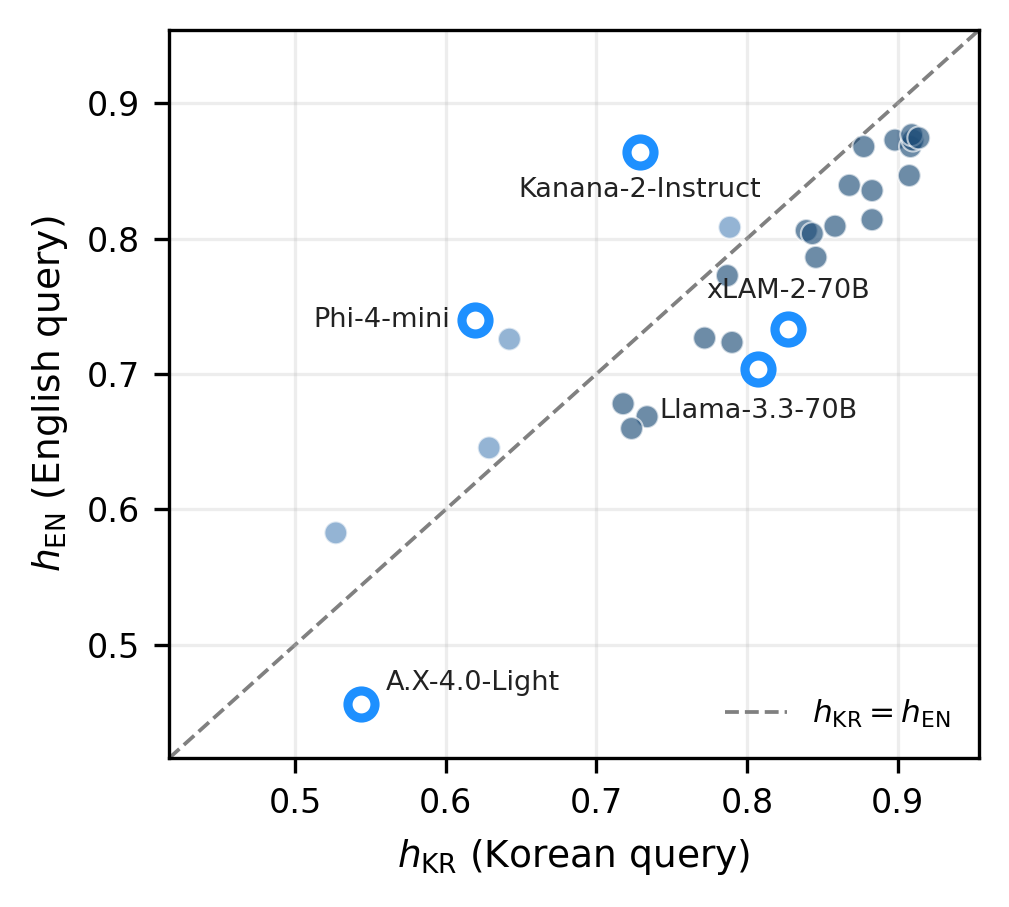
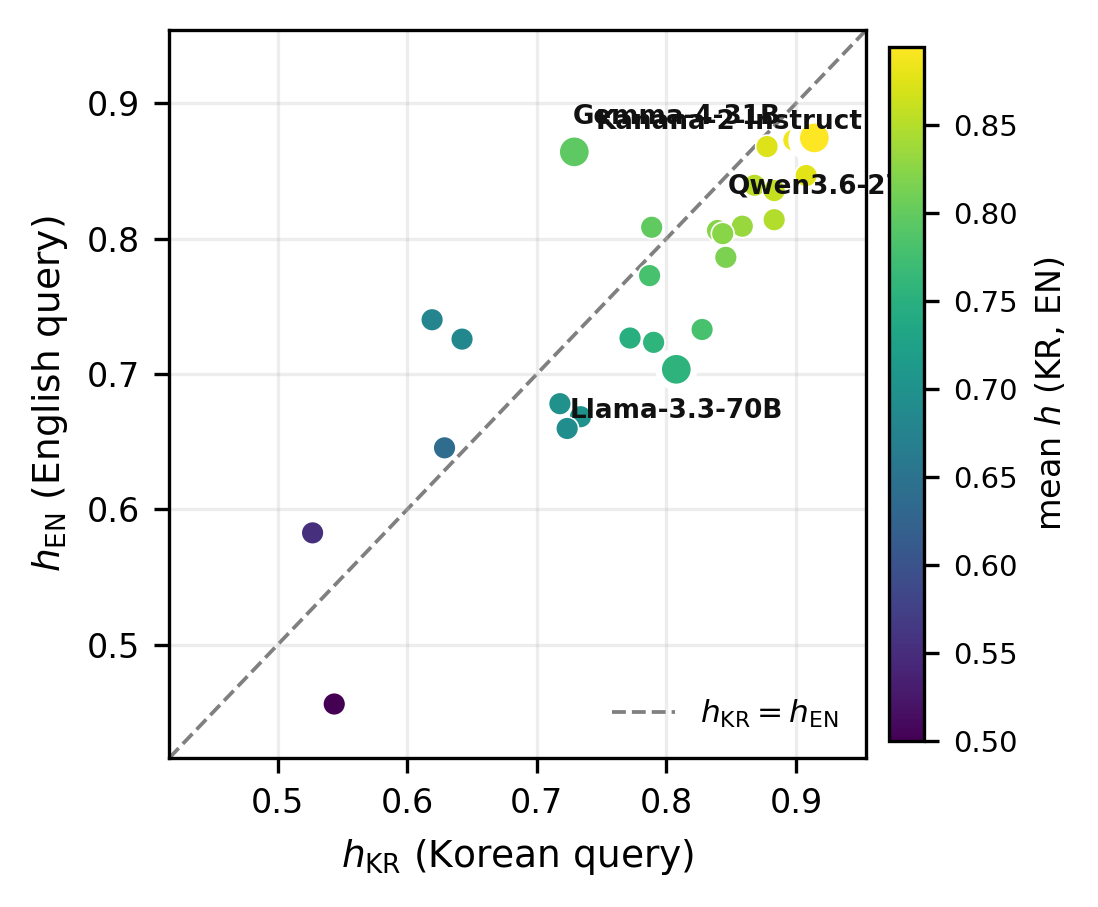
fig(RQ4 fig:kr_en): 점 색=두 언어 평균성능(viridis+colorbar)으로 인코딩, 강조를 'Δ상위5'→'두 언어 강함 2개(Gemma-4-31B,Qwen3.6-27B)+의미있는 격차 2개(Llama-3.3-70B,Kanana)'로 변경. 저성능 라벨(A.X-Light/Phi-4-mini/xLAM) 제거(공동저자 피드백: 편차만이 아니라 성능 우열도 반영)

diff --git a/_experiments/scripts/generate_fig4_scatter_v2.py b/_experiments/scripts/generate_fig4_scatter_v2.py
@@ -46,15 +46,15 @@ EXCLUDE = {
 
 # 라벨링할 핵심 모델 (substring -> (표시명, ha, va, dx, dy))
 # 모두 축 박스 안쪽으로 향하도록 배치(오른쪽 경계 침범 방지).
+# 강조 모델 2종: (1) 두 언어 모두 강함(top performers, 대각선 상단), (2) 의미 있는 언어 격차
 LABELS = {
-    "kakaocorp/kanana-2-30b-a3b-instruct": ("Kanana-2-Instruct", "center", "top", 0, -6),
-    "kakaocorp_kanana-2-30b-a3b-instruct": ("Kanana-2-Instruct", "center", "top", 0, -6),
+    # 두 언어 모두 강한 최상위 모델 (서로 근접 → 라벨 방향 분산)
+    "google_gemma-4-31B-it":               ("Gemma-4-31B", "right", "center", -8, 5),
+    "Qwen_Qwen3_6-27B":                    ("Qwen3.6-27B", "center", "top", 4, -8),
+    # 의미 있는 언어 격차 (성능도 양호)
     "meta-llama_Llama-3_3-70B-Instruct":   ("Llama-3.3-70B", "center", "top", 0, -7),
-    "skt_A_X-4_0-Light":                   ("A.X-4.0-Light", "left", "bottom", 6, 2),
-    # EN-advantaged outlier (좌측 빈 공간으로): text가 점 왼쪽으로 뻗음
-    "microsoft_Phi-4-mini-instruct":       ("Phi-4-mini", "right", "center", -6, 0),
-    # KR-advantaged outlier (위쪽 빈 공간으로)
-    "Salesforce_Llama-xLAM-2-70b-fc-r":    ("xLAM-2-70B", "center", "bottom", 0, 6),
+    "kakaocorp/kanana-2-30b-a3b-instruct": ("Kanana-2-Instruct", "left", "bottom", 5, 4),
+    "kakaocorp_kanana-2-30b-a3b-instruct": ("Kanana-2-Instruct", "left", "bottom", 5, 4),
 }
 
 
@@ -89,19 +89,22 @@ def main():
 
     kr_v = np.array([r[1] for r in rows])
     en_v = np.array([r[2] for r in rows])
-    delta = kr_v - en_v
-    colors = ["#1F4E79" if d >= 0 else "#5B8DBE" for d in delta]
+    mean_h = (kr_v + en_v) / 2.0           # 색 = 두 언어 평균 성능(우열)
+    import matplotlib as _mpl
+    norm = _mpl.colors.Normalize(vmin=mean_h.min(), vmax=mean_h.max())
+    cmap = "viridis"
 
-    fig, ax = plt.subplots(figsize=(3.5, 3.15))
-    # 라벨된 outlier는 크게 + 굵은 진한 테두리로 강조, 나머지는 연하게
+    fig, ax = plt.subplots(figsize=(3.8, 3.15))
+    # 강조 모델(두 언어 모두 강함 + 의미 있는 격차)은 크게, 면색=평균성능 유지(우열 보존)
     _hi = [i for i, (m, _, _) in enumerate(rows) if label_for(m) is not None]
     _pl = [i for i in range(len(rows)) if i not in _hi]
-    ax.scatter(kr_v[_pl], en_v[_pl], c=[colors[i] for i in _pl], alpha=0.65, s=30,
-               edgecolors="white", linewidths=0.5, zorder=3)
-    # 강조점은 속을 비워(흰 면) 파란 테두리와 면 색이 확실히 구분되게 함.
-    # (면=white, 테두리=blue → 면≠테두리; KR/EN 우위 방향은 대각선 기준 위치로 드러남)
-    ax.scatter(kr_v[_hi], en_v[_hi], c="white", alpha=1.0, s=42,
-               edgecolors="#1E90FF", linewidths=2.2, zorder=5)
+    sc = ax.scatter(kr_v[_pl], en_v[_pl], c=mean_h[_pl], cmap=cmap, norm=norm,
+                    s=30, edgecolors="white", linewidths=0.4, zorder=3)
+    ax.scatter(kr_v[_hi], en_v[_hi], c=mean_h[_hi], cmap=cmap, norm=norm,
+               s=72, edgecolors="white", linewidths=1.6, zorder=5)
+    cbar = fig.colorbar(sc, ax=ax, fraction=0.046, pad=0.03)
+    cbar.set_label(r"mean $h$ (KR, EN)", fontsize=8)
+    cbar.ax.tick_params(labelsize=7)
 
     lo = min(kr_v.min(), en_v.min()) - 0.04
     hi = max(kr_v.max(), en_v.max()) + 0.04
@@ -112,7 +115,7 @@ def main():
         lab = label_for(m)
         if lab:
             name, ha, va, dx, dy = lab
-            ax.annotate(name, (k, e), fontsize=6.5, color="#222",
+            ax.annotate(name, (k, e), fontsize=6.3, color="#111", fontweight="bold",
                         xytext=(dx, dy), textcoords="offset points",
                         ha=ha, va=va, zorder=6)
 
@@ -128,9 +131,10 @@ def main():
     plt.savefig(OUT, dpi=300, bbox_inches="tight")
     plt.close()
     print(f"Saved {OUT}")
+    _d = kr_v - en_v
     print(f"n={len(rows)} KR={kr_v.mean():.4f} EN={en_v.mean():.4f} "
           f"gap={(kr_v.mean()-en_v.mean())*100:.1f}pp "
-          f"KRadv={int((delta>0).sum())} ENadv={int((delta<0).sum())}")
+          f"KRadv={int((_d>0).sum())} ENadv={int((_d<0).sum())}")
 
 
 if __name__ == "__main__":
